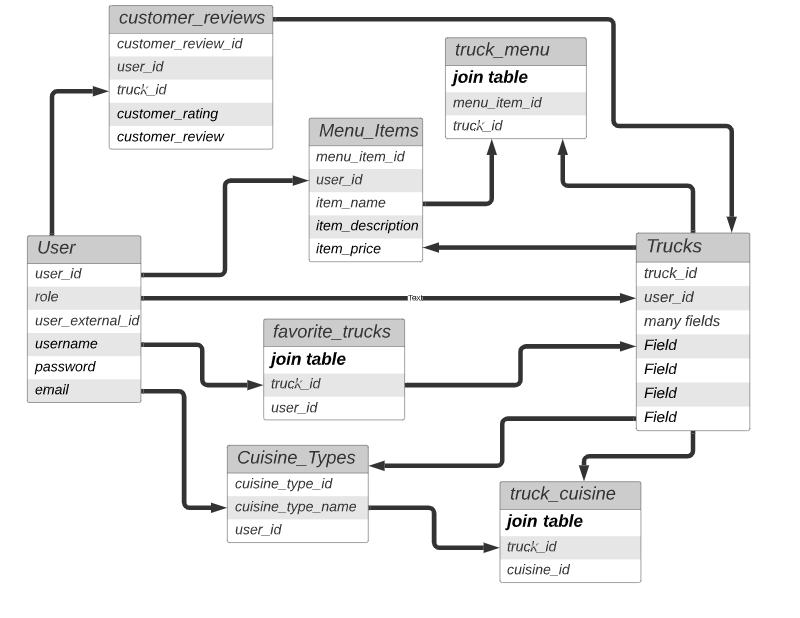
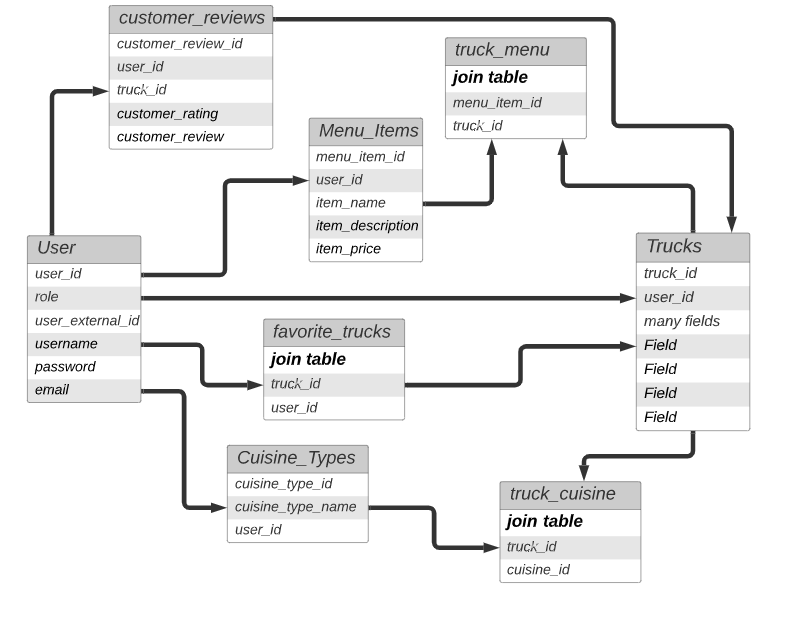
unable to get the seed data to populate, and i cannot figure out how to solve the issue?

Changed region(s): [[0.5312, 0.3689, 0.7812, 0.4304], [0.4688, 0.6456, 0.7812, 0.7686], [0.5, 0.4612, 0.5312, 0.4919]]

diff --git a/src/main/java/com/lambdaschool/foodtruck/models/Truck.java b/src/main/java/com/lambdaschool/foodtruck/models/Truck.java
@@ -21,7 +21,7 @@ public class Truck {
     private long longitude;
     private String address;
     private String city;
-    private String  state;
+    private String state;
     private int zipcode;
     private Date arrivaldate;
     private Time arrivaltime;
@@ -35,6 +35,16 @@ public class Truck {
     @ManyToMany()
     @JoinTable(name = "truckmenu", joinColumns = @JoinColumn(name = "truckid"),inverseJoinColumns = @JoinColumn(name = "menuitemid"))
     private List<MenuItems> menuItems = new ArrayList<>();
+
+    @ManyToMany()
+    @JoinTable(name = "truckcuisine", joinColumns = @JoinColumn(name = "truckid"), inverseJoinColumns = @JoinColumn(name = "cuisinetypeid"))
+    private List<CuisineType> cuisineTypes = new ArrayList<>();
+
+    @OneToOne
+    private CustomerReview customerReview;
+
+    @ManyToMany(mappedBy = "favTrucks")
+    private List<User> users = new ArrayList<>();
 
     public Truck() {
     }
@@ -56,7 +66,29 @@ public class Truck {
         this.user = user;
     }
 
+    public CustomerReview getCustomerReview() {
+        return customerReview;
+    }
 
+    public void setCustomerReview(CustomerReview customerReview) {
+        this.customerReview = customerReview;
+    }
+
+    public List<User> getUsers() {
+        return users;
+    }
+
+    public void setUsers(List<User> users) {
+        this.users = users;
+    }
+
+    public List<CuisineType> getCuisineTypes() {
+        return cuisineTypes;
+    }
+
+    public void setCuisineTypes(List<CuisineType> cuisineTypes) {
+        this.cuisineTypes = cuisineTypes;
+    }
 
     public long getTruckid() {
         return truckid;

diff --git a/src/main/java/com/lambdaschool/foodtruck/models/CuisineType.java b/src/main/java/com/lambdaschool/foodtruck/models/CuisineType.java
@@ -1,6 +1,10 @@
 package com.lambdaschool.foodtruck.models;
 
 import javax.persistence.*;
+import java.util.ArrayList;
+import java.util.HashSet;
+import java.util.List;
+import java.util.Set;
 
 @Entity
 @Table(name = "cuisinetypes")
@@ -13,8 +17,13 @@ public class CuisineType {
     private String cuisinetypename;
 
     @ManyToOne
-    @JoinColumn(name = "userid", nullable = false)
+    @JoinColumn(name = "userid", nullable = true)
     private User user;
+
+
+    @ManyToMany(mappedBy = "cuisineTypes")
+    private Set<Truck> trucks = new HashSet<>();
+
 
     public CuisineType() {
     }
@@ -23,6 +32,16 @@ public class CuisineType {
         this.cuisinetypename = cuisinetypename;
         this.user = user;
 
+    }
+
+
+
+    public Set<Truck> getTrucks() {
+        return trucks;
+    }
+
+    public void setTrucks(Set<Truck> trucks) {
+        this.trucks = trucks;
     }
 
     public long getCuisinetypeid() {

diff --git a/src/main/java/com/lambdaschool/foodtruck/models/User.java b/src/main/java/com/lambdaschool/foodtruck/models/User.java
@@ -1,6 +1,5 @@
 package com.lambdaschool.foodtruck.models;
 
-
 import javax.persistence.*;
 import java.util.ArrayList;
 import java.util.HashSet;
@@ -35,6 +34,10 @@ public class User {
     @OneToMany(mappedBy = "user", cascade = CascadeType.ALL, orphanRemoval = true)
     private List<MenuItems> menuItems = new ArrayList<>();
 
+    @ManyToMany()
+    @JoinTable(name = "favoritetrucks", joinColumns = @JoinColumn(name = "userid"),inverseJoinColumns = @JoinColumn(name = "truckid"))
+    private List<Truck> favTrucks = new ArrayList<>();
+
     public User() {
     }
 
@@ -43,7 +46,6 @@ public class User {
         this.username = username;
         this.password = password;
         this.email = email;
-
     }
 
 

diff --git a/src/main/java/com/lambdaschool/foodtruck/models/MenuItems.java b/src/main/java/com/lambdaschool/foodtruck/models/MenuItems.java
@@ -16,7 +16,7 @@ public class MenuItems {
     private String itemname;
 
     private String itemdescription;
-    private long price;
+    private double price;
     private String menuitemphotourl;
 
     @ManyToOne
@@ -79,11 +79,11 @@ public class MenuItems {
         this.itemdescription = itemdescription;
     }
 
-    public long getPrice() {
+    public double getPrice() {
         return price;
     }
 
-    public void setPrice(long price) {
+    public void setPrice(double price) {
         this.price = price;
     }
 

diff --git a/src/main/java/com/lambdaschool/foodtruck/repositories/CuisineTypeRepository.java b/src/main/java/com/lambdaschool/foodtruck/repositories/CuisineTypeRepository.java
@@ -1,0 +1,7 @@
+package com.lambdaschool.foodtruck.repositories;
+
+import com.lambdaschool.foodtruck.models.CuisineType;
+import org.springframework.data.repository.CrudRepository;
+
+public interface CuisineTypeRepository extends CrudRepository<CuisineType, Long> {
+}

diff --git a/src/main/java/com/lambdaschool/foodtruck/repositories/TruckRepository.java b/src/main/java/com/lambdaschool/foodtruck/repositories/TruckRepository.java
@@ -1,0 +1,7 @@
+package com.lambdaschool.foodtruck.repositories;
+
+import com.lambdaschool.foodtruck.models.Truck;
+import org.springframework.data.repository.CrudRepository;
+
+public interface TruckRepository extends CrudRepository<Truck, Long> {
+}

diff --git a/src/main/java/com/lambdaschool/foodtruck/repositories/UserRepository.java b/src/main/java/com/lambdaschool/foodtruck/repositories/UserRepository.java
@@ -1,0 +1,7 @@
+package com.lambdaschool.foodtruck.repositories;
+
+import com.lambdaschool.foodtruck.models.User;
+import org.springframework.data.repository.CrudRepository;
+
+public interface UserRepository extends CrudRepository<User, Long> {
+}

diff --git a/src/main/java/com/lambdaschool/foodtruck/repositories/MenuItemsRepository.java b/src/main/java/com/lambdaschool/foodtruck/repositories/MenuItemsRepository.java
@@ -1,0 +1,8 @@
+package com.lambdaschool.foodtruck.repositories;
+
+import org.springframework.data.repository.CrudRepository;
+
+import java.awt.*;
+
+public interface MenuItemsRepository extends CrudRepository<Menu, Long> {
+}

diff --git a/src/main/java/com/lambdaschool/foodtruck/services/UserServiceImpl.java b/src/main/java/com/lambdaschool/foodtruck/services/UserServiceImpl.java
@@ -1,0 +1,10 @@
+package com.lambdaschool.foodtruck.services;
+
+
+import com.lambdaschool.foodtruck.models.User;
+
+public class UserServiceImpl implements UserService {
+
+    User save(User user);
+
+}

diff --git a/src/main/java/com/lambdaschool/foodtruck/models/CustomerReview.java b/src/main/java/com/lambdaschool/foodtruck/models/CustomerReview.java
@@ -29,6 +29,8 @@ public class CustomerReview {
         this.truck = truck;
     }
 
+
+
     public long getCustomerreviewid() {
         return customerreviewid;
     }

diff --git a/src/main/java/com/lambdaschool/foodtruck/services/UserService.java b/src/main/java/com/lambdaschool/foodtruck/services/UserService.java
@@ -1,0 +1,5 @@
+package com.lambdaschool.foodtruck.services;
+
+
+public interface UserService {
+}
